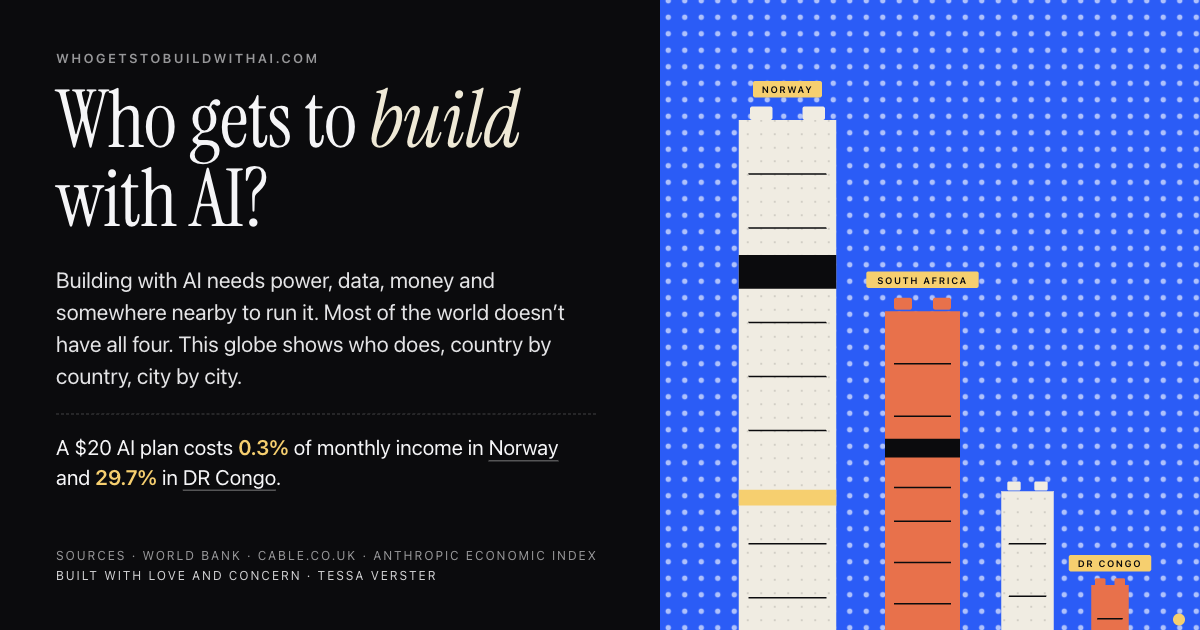
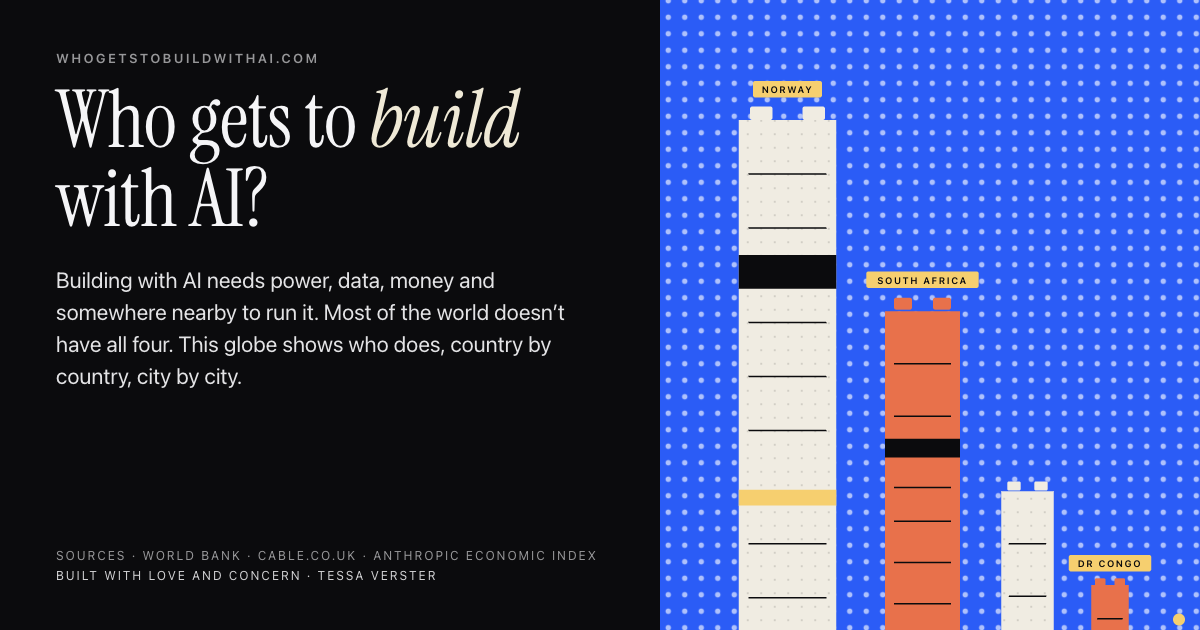
Routes on by default; drop the stat line from the modal; phone modal above the fold; shorter arc labels

Changed region(s): [[0.0308, 0.6937, 0.4625, 0.7841]]

diff --git a/styles.css b/styles.css
@@ -244,13 +244,7 @@
   .ibox h2{font-size:clamp(40px,5.2vw,74px);line-height:.98;opacity:0;animation:rise .6s var(--ease) .4s forwards;position:relative}
   .ibox .lead{font-family:var(--sans);font-size:clamp(16px,1.3vw,19px);color:rgba(245,245,247,.92);line-height:1.5;margin:22px 0 0;max-width:560px;opacity:0;animation:rise .6s var(--ease) .8s forwards}
   .ibox .lead.open{animation-delay:.55s}
-  .ibox .lead.outro{margin-top:14px;animation-delay:1s}
-  .ibox .hero{font-family:var(--sans);font-weight:400;font-size:clamp(17px,1.45vw,21px);line-height:1.45;letter-spacing:0;margin:18px 0 0;padding:18px 0;border-top:var(--rule);border-bottom:var(--rule);color:var(--text);overflow-wrap:anywhere;opacity:0;animation:rise .6s var(--ease) .7s forwards}
-  .ibox .hero b{font-weight:600;font-style:normal;color:#f6cf6f}
-  .ibox .hero a{color:var(--text);text-decoration:underline;text-decoration-color:rgba(255,255,255,.35);text-underline-offset:3px;text-decoration-thickness:1.5px;transition:text-decoration-color .2s}
-  .ibox .hero a:hover{text-decoration-color:var(--text)}
-  .ibox .hero .src{display:inline;font-family:var(--sans);font-weight:400;font-size:.7em;color:var(--muted);text-decoration:underline;text-decoration-color:rgba(255,255,255,.3);text-underline-offset:3px;margin-left:4px;white-space:nowrap;vertical-align:baseline}
-  .ibox .hero .src:hover{color:var(--text);text-decoration-color:var(--text)}
+  .ibox .lead.outro{margin-top:16px;padding-top:16px;border-top:var(--rule);animation-delay:1s}
   .ibox .cta{display:flex;align-items:center;gap:18px;flex-wrap:wrap;margin-top:34px;opacity:0;animation:rise .5s var(--ease) 1.2s forwards}
   #introGo{padding:14px 26px;font-size:15px;letter-spacing:0;text-transform:none;font-weight:600;border-radius:4px;background:#f0ece2;color:#0b0b0d;border-color:#f0ece2}
   #introGo:hover{background:#fff}
@@ -264,11 +258,11 @@
   @keyframes introIn{to{opacity:1}}
   @keyframes shrink{to{transform:scaleX(0)}}
   @keyframes rise{from{opacity:0;transform:translateY(10px)}to{opacity:1;transform:none}}
-  @media (max-width:900px){ .ibox{grid-template-columns:1fr} .ibox .art{order:-1;min-height:0;height:230px} .ibox .copy{padding:26px 28px 26px} .ibox .lead{font-size:16px} .ibox .hero{font-size:17px} }
-  @media (max-width:700px){ .ibox{width:calc(100% - 28px)} .ibox .copy{padding:22px 22px 22px} .ibox .art{height:200px} .ibox .lead{margin-top:14px} .ibox .hero{margin-top:14px;padding:14px 0} .ibox .cta{margin-top:24px} }
-  @media (max-width:380px){ .ibox{width:calc(100% - 20px)} .ibox .copy{padding:18px 16px 18px} .ibox h2{font-size:36px} .ibox .lead{font-size:15px} .ibox .hero{font-size:16px} .ibox .cta{gap:6px} #introGo{padding:11px 18px;font-size:14px} .btn.ghost{font-size:14px} }
-  @media (max-height:520px){ #intro{padding:8px 0} .ibox{width:calc(100% - 24px)} .ibox .copy{padding:14px 22px 12px} .ibox .art{min-height:0} .ibox .kicker{margin-bottom:8px} .ibox h2{font-size:30px} .ibox .hero{font-size:15px;margin-top:8px;padding:8px 0} .ibox .lead{font-size:14px;margin-top:8px} .ibox .cta{margin-top:14px} .ibox .byline{margin-top:10px} }
-  @media (prefers-reduced-motion:reduce){ #intro,.ibox .kicker,.ibox h2,.ibox .hero,.ibox .lead,.ibox .cta,.ibox .byline,.ibox .art{animation:none;opacity:1} .ibar{display:none} }
+  @media (max-width:900px){ .ibox{grid-template-columns:1fr} .ibox .art{order:-1;min-height:0;height:200px} .ibox .copy{padding:24px 28px 22px} .ibox .lead{font-size:16px} .ibox h2{font-size:40px} }
+  @media (max-width:700px){ #intro{align-items:flex-start} .ibox{width:calc(100% - 28px)} .ibox .copy{padding:18px 20px 18px} .ibox .art{height:150px} .ibox .kicker{margin-bottom:8px} .ibox h2{font-size:36px} .ibox .lead{margin-top:12px;font-size:15px;line-height:1.45} .ibox .lead.outro{margin-top:12px;padding-top:12px} .ibox .cta{margin-top:16px;gap:4px 14px} .ibox .byline{margin-top:16px} }
+  @media (max-width:380px){ .ibox{width:calc(100% - 20px)} .ibox .copy{padding:16px 16px 16px} .ibox h2{font-size:32px} .ibox .lead{font-size:14px} .ibox .art{height:120px} #introGo{padding:11px 18px;font-size:14px} .btn.ghost{font-size:14px} }
+  @media (max-height:520px){ #intro{padding:8px 0} .ibox{width:calc(100% - 24px)} .ibox .copy{padding:14px 22px 12px} .ibox .art{min-height:0} .ibox .kicker{margin-bottom:8px} .ibox h2{font-size:30px} .ibox .lead{font-size:14px;margin-top:8px} .ibox .cta{margin-top:14px} .ibox .byline{margin-top:10px} }
+  @media (prefers-reduced-motion:reduce){ #intro,.ibox .kicker,.ibox h2,.ibox .lead,.ibox .cta,.ibox .byline,.ibox .art{animation:none;opacity:1} .ibar{display:none} }
   /* tooltip */
   /* personalised strip at the top of the visitor's own country card; .est is the shared "modelled estimate" styling (methodology panel uses it too) */
   .card .mine{margin:0 0 14px;padding:12px 14px;border-radius:14px;background:var(--fill);border:1px solid var(--line);font-size:14px;line-height:1.45;color:var(--text)}
@@ -283,7 +277,7 @@
   .arclabel i{width:7px;height:7px;border-radius:2px;display:inline-block;box-shadow:inset 0 -1px 0 rgba(0,0,0,.3)}
   .arclabel.dim{opacity:.45!important}
   .arclabel.caption{font-family:var(--serif);font-style:italic;text-transform:none;letter-spacing:0;font-size:13px;color:rgba(245,245,247,.85);background:transparent;border:0;padding:0}
-  @media (max-width:600px){ .arclabel{font-size:9px;padding:3px 6px} .arclabel.caption{font-size:12px} }
+  @media (max-width:600px){ .arclabel{font-size:9px;padding:3px 6px} .arclabel .op{display:none} .arclabel.caption{font-size:12px} }   /* phones: city only; the dot carries the operator */
   /* page share: top right, above the panel; native share sheet where there is one, otherwise copy the link */
   #siteShare{position:fixed;top:18px;right:24px;z-index:9;display:inline-flex;align-items:center;gap:8px;padding:10px 16px;border-radius:999px;background:#efe9d6;color:#0b0b0d;border:0;font-size:12px;letter-spacing:.12em;text-transform:uppercase;font-weight:600;box-shadow:0 10px 30px rgba(0,0,0,.45)}
   #siteShare:hover{background:#fff}

diff --git a/index.html b/index.html
@@ -14,14 +14,14 @@
 <meta property="og:url" content="https://whogetstobuildwithai.com/">
 <meta property="og:type" content="website">
 <meta property="og:site_name" content="Who gets to build with AI?">
-<meta property="og:image" content="https://whogetstobuildwithai.com/og.png?v=3">
+<meta property="og:image" content="https://whogetstobuildwithai.com/og.png?v=4">
 <meta property="og:image:width" content="1200">
 <meta property="og:image:height" content="630">
 <meta property="og:image:alt" content="Who gets to build with AI? Building with AI needs power, data, money and somewhere nearby to run it. Most of the world doesn’t have all four. Towers for Norway, South Africa and DR Congo.">
 <meta name="twitter:card" content="summary_large_image">
 <meta name="twitter:title" content="Who gets to build with AI?">
 <meta name="twitter:description" content="Building with AI needs power, data, money and somewhere nearby to run it. Most of the world doesn’t have all four. A Lego globe shows who does, country by country.">
-<meta name="twitter:image" content="https://whogetstobuildwithai.com/og.png?v=3">
+<meta name="twitter:image" content="https://whogetstobuildwithai.com/og.png?v=4">
 <link rel="icon" type="image/svg+xml" href="favicon.svg">
 <link rel="icon" type="image/png" sizes="32x32" href="favicon-32.png">
 <link rel="apple-touch-icon" sizes="180x180" href="apple-touch-icon.png">
@@ -31,7 +31,7 @@
 <link rel="preconnect" href="https://fonts.gstatic.com" crossorigin>
 <link rel="stylesheet" href="https://fonts.googleapis.com/css2?family=Instrument+Serif:ital@0;1&display=swap">
 <meta name="theme-color" content="#22252d">
-<link rel="stylesheet" href="styles.css?v=20261019b">
+<link rel="stylesheet" href="styles.css?v=20261019c">
 </head>
 <body class="intro noticker">
 <canvas id="scene"></canvas>
@@ -141,7 +141,6 @@
       <div class="kicker">whogetstobuildwithai.com</div>
       <h2>Who gets to <i>build</i> with AI?</h2>
       <p class="lead open">Building with AI needs power, data, money and somewhere nearby to run it. Most of the world doesn’t have all four. This globe shows who does, country by country, city by city.</p>
-      <p class="hero" id="heroStat">A $20 AI plan costs <b>0.3%</b> of monthly income in <a href="?country=NO" data-iso="NO">Norway</a> and <b>29.7%</b> in <a href="?country=CD" data-iso="CD">DR Congo</a>. <a class="src" id="heroSrc" href="?panel=methodology">How this is measured</a></p>
       <p class="lead outro">Explore, be curious, ask questions, and share what you find.</p>
       <div class="cta"><button class="btn primary" id="introGo">See where you stand →</button><button class="btn ghost" id="introExplore">or explore the globe</button></div>
       <div class="byline"><span>Sources · World Bank · Cable.co.uk · Anthropic Economic Index</span><span>Built with love and concern · <a href="https://www.linkedin.com/in/tessa-verster/" target="_blank" rel="noopener">Tessa Verster</a></span></div>

diff --git a/js/intro.js b/js/intro.js
@@ -1,7 +1,7 @@
 /* The intro overlay, wired as early as possible: this module depends only on js/geo.js and data/countryNames.js
    (a few KB), so the overlay is usable long before Three.js, the scene and the full data arrive. Anything that needs
    the scene (opening a country card, focusing search) is queued as `intro.pending` and run by js/main.js once the
-   first frame has rendered. The hero sentence itself is static HTML; main.js re-renders it from the data (HERO_STAT).
+   first frame has rendered.
 
    The overlay does not close by itself. URL switches: ?intro=0 or ?nointro skips the intro, ?intro=1 forces it even if it was seen this session.
    Storage: one sessionStorage flag, "introSeen". No cookies, no network. */
@@ -40,13 +40,6 @@ function labelMiddleTower(iso){
 const seen = (() => { try { return sessionStorage.getItem("introSeen") === "1"; } catch (_) { return false; } })();
 const skip = params.get("intro") === "0" || params.has("nointro") || params.has("country") || (params.get("intro") !== "1" && seen);   // a deep link goes straight to its country
 
-// beat 1: country names in the claim open that country; the source marker opens the methodology panel (?panel=methodology)
-$("#heroStat").addEventListener("click", e => {
-  const a = e.target.closest("a"); if (!a) return;
-  e.preventDefault();
-  if (a.dataset.iso) dismiss({ select: a.dataset.iso });
-  else if (a.id === "heroSrc"){ track("methodology"); history.replaceState(null, "", "?panel=methodology"); window.dispatchEvent(new CustomEvent("open-panel", { detail: "methodology" })); dismiss(); }   // TODO(methodology panel): listen for this event and open it
-});
 // beat 3: the call to action names the visitor's own country when the time zone or browser language gives one away
 const iso = detectCountry(new Set(Object.keys(COUNTRY_NAMES)));
 intro.countryIso = iso;

diff --git a/tools/og-template.html b/tools/og-template.html
@@ -14,9 +14,6 @@
   .title{font-family:"Instrument Serif",Georgia,serif;font-size:80px;font-weight:400;letter-spacing:-.01em;line-height:.98;margin-top:16px}
   .title i{color:#efe9d6}
   .lead{font-size:22px;line-height:1.45;margin-top:26px;max-width:540px;color:rgba(245,245,247,.92)}
-  .stat{font-size:21px;line-height:1.4;margin-top:22px;padding-top:18px;border-top:1px dashed rgba(255,255,255,.22);max-width:540px}
-  .stat b{font-weight:600;color:#f6cf6f}
-  .stat em{font-style:normal;text-decoration:underline;text-decoration-color:rgba(255,255,255,.3);text-underline-offset:5px;text-decoration-thickness:1.5px}
   .foot{position:absolute;left:56px;bottom:44px;font-size:12px;letter-spacing:.16em;text-transform:uppercase;color:rgba(245,245,247,.6);line-height:1.7}
   .foot b{display:block;font-weight:400;color:rgba(245,245,247,.85)}
   .art{position:relative;background:#2b5cf6}
@@ -29,15 +26,11 @@
     <div class="kicker">whogetstobuildwithai.com</div>
     <div class="title">Who gets to <i>build</i> with AI?</div>
     <div class="lead">Building with AI needs power, data, money and somewhere nearby to run it. Most of the world doesn’t have all four. This globe shows who does, country by country, city by city.</div>
-    <div class="stat" id="stat"></div>
     <div class="foot">Sources · World Bank · Cable.co.uk · Anthropic Economic Index<b>Built with love and concern · Tessa Verster</b></div>
   </div>
   <div class="art" id="art"></div>
 </div>
 <script>
-  // From data/countries.js (subscriptionShareOfIncome, derived from World Bank GDP per capita); keep in step with HERO_STAT in js/main.js.
-  const HERO_STAT = "A $20 AI plan costs <b>0.3%</b> of monthly income in <em>Norway</em> and <b>29.7%</b> in <em>DR Congo</em>.";
-  document.getElementById("stat").innerHTML = HERO_STAT;
 </script>
 </body>
 </html>

diff --git a/js/panel.js b/js/panel.js
@@ -249,7 +249,7 @@ function select(ref, keepTab, switching){
   if (!view.autoPan) view.restoreDist = view.tDist;   // remember the zoom we came from, restored when the card closes
   sfx.select();
   if (!ref.isContinent){ showCities(ref); setFocus([t, ...cityTowers, ...state.pinned.map(p => p._tower)]); }
-  if (!ref.isContinent) showArcs(ref.servedBy.map(d => ({from:t.pos, to:d._pos, color:OPERATOR_COLOR[d.operator], dc:d, label:`${OPERATOR_LABEL[d.operator]} · ${d.city}${d.iso === ref.iso ? " · in-country" : d.name === "us-east-1" ? " · frontier models" : " · nearest region"}`})), `Where ${ref.name}'s prompts likely travel`);
+  if (!ref.isContinent) showArcs(ref.servedBy.map(d => ({from:t.pos, to:d._pos, color:OPERATOR_COLOR[d.operator], dc:d, label:`${d.city}<span class="op"> · ${OPERATOR_LABEL[d.operator]}</span>${d.iso === ref.iso ? " · in-country" : d.name === "us-east-1" ? " · frontier" : ""}`})), `Where ${ref.name}'s prompts likely travel`);
   setDCFocus(ref.isContinent ? null : ref.servedBy); retarget(700, false);
   const L = t.n * ref.growthCurve[state.year] * t.dims.h;                                  // this tower's height once settled
   const Lmax = Math.max(L, ...cityTowers.map(ct => ct.n * ct.dims.h * (ct.cityOf === ref ? ref.growthCurve[state.year] : 0)));

diff --git a/js/scene.js b/js/scene.js
@@ -573,11 +573,11 @@ function projectLocal(v){   // world-local point → page pixels, and whether it
 let _panelRect = null;
 const arcsCtl = createArcs({ world, contact, contactBase: towers.length, contactSpare: CONTACT_EXTRA, isPhone: () => isNarrow(), lowTier: () => quality.tier === "low", project: projectLocal });
 function clearArcs(){ lastPairs = null; arcsCtl.clear(); }
-let routesOn = (() => { try { return localStorage.getItem("routes") !== "0"; } catch (_) { return true; } })();
+let routesOn = true;   // on by default on every visit; the toggle (R) is not remembered
 let lastPairs = null, lastCaption = null;
 function showArcs(pairs, caption){ lastPairs = pairs; lastCaption = caption; if (routesOn) arcsCtl.show(pairs, caption); else arcsCtl.clear(); }   // pairs: [{from:Vector3, to:Vector3, color, dc, label}]
 function setRoutes(on){
-  routesOn = !!on; try { localStorage.setItem("routes", routesOn ? "1" : "0"); } catch (_) {}
+  routesOn = !!on;
   const b = $("#routesToggle"); if (b){ b.classList.toggle("on", routesOn); b.setAttribute("aria-pressed", routesOn); }
   if (routesOn && lastPairs && (state.selected || state.selectedDC)) arcsCtl.show(lastPairs, lastCaption); else arcsCtl.clear();
 }

diff --git a/js/main.js b/js/main.js
@@ -24,7 +24,7 @@ const link = c => `<a href="?country=${c.iso}" data-iso="${c.iso}">${c.name}</a>
    ===================================================================================== */
 {
   const A = DATA.countries.find(c => c.iso === HERO_STAT.a), B = DATA.countries.find(c => c.iso === HERO_STAT.b);
-  const hero = $("#heroStat"); if (hero){ const src = $("#heroSrc"); hero.innerHTML = HERO_STAT.text(A, B) + (src ? " " + src.outerHTML : ""); }
+  const hero = $("#heroStat"); if (hero){ const src = $("#heroSrc"); hero.innerHTML = HERO_STAT.text(A, B) + (src ? " " + src.outerHTML : ""); }   // the modal no longer carries the stat (removed 19 Oct 2026); this fills it if it is ever put back
 }
 let app = null;              // { select, showTab, searchEl, syncSheet, isNarrow } once scene.js/panel.js are loaded
 function runPending(){

diff --git a/CLAUDE.md b/CLAUDE.md
@@ -23,7 +23,7 @@ Static, no-build exhibit deployed by GitHub Pages from `main` (custom domain in 
 - `js/colors.js`: `PROVIDER_COLOR`, `OPERATOR_COLOR`, `CONTINENT_COLOR` and `CSS_TOKENS`, a mirror of the `:root` tokens in `styles.css` (styles.css is the source of truth).
 
 ## 4. Intro overlay and side panel
-- Intro: `#intro` markup in `index.html` (styles under `#intro`, `.ibox`, `#placeholder` in `styles.css`). Beats: headline, an opening paragraph (`.lead.open`), `HERO_STAT` (constant in `js/main.js`; the two country names are links that open that country, followed by the inline "How this is measured" link `#heroSrc`), an "Explore, be curious" line (`.lead.outro`), a CTA "See {Country} →" that opens the detected country's card (fallback "See where you stand →" focuses search) and "or explore the globe".
+- Intro: `#intro` markup in `index.html` (styles under `#intro`, `.ibox`, `#placeholder` in `styles.css`). Beats: headline, an opening paragraph (`.lead.open`), an "Explore, be curious" line (`.lead.outro`, dashed rule above). The "$20 AI plan" stat line was removed on 19 Oct 2026 (the user asked); `HERO_STAT` in `js/main.js` still exists and only fills `#heroStat` if that element is ever put back. On phones (≤700px) the art banner is 150px and the type tightens so both CTA buttons sit above the fold on a 375×548 viewport (iPhone SE with Safari's toolbar); `tools/shots.mjs` or a bounding-rect check should confirm this after any intro change, a CTA "See {Country} →" that opens the detected country's card (fallback "See where you stand →" focuses search) and "or explore the globe".
 - `js/intro.js` wires the overlay as an `async` module that depends only on `js/geo.js` (time zone → ISO2 table, then `navigator.language` region; `GEO_OVERRIDE_URL` is the hook for a future `/api/geo`) and `data/countryNames.js`, so it is interactive at ~0.7 s on Slow 4G + 4x CPU; it then starts the Three.js download (`threeReady`) and `js/main.js` awaits it before importing scene.js/panel.js. Actions chosen before the scene exists are queued (`intro.pending`) and run on the first rendered frame, which also adds `body.ready` (fades `#placeholder`, the static dot-grid globe) (there is no auto-dismiss: the overlay waits for a choice or Escape). `sessionStorage.introSeen` skips it on later loads in the session; `?intro=1` forces, `?intro=0` / `?nointro` skip. The source marker sets `?panel=methodology` and dispatches an `open-panel` event (methodology panel still to build). `prefers-reduced-motion` turns off auto-rotate and the intro animations.
 - `tools/intro-perf.mjs` measures intro interactivity on the throttled profile; `tools/shots.mjs` takes desktop + phone screenshots.
 - Controls: `#controls` has Continents, the layer segment, a Routes toggle (arcs on/off, `R`, persisted in localStorage) and sound. `#siteShare` (top right, fixed) shares the page or the selected country's deep link via navigator.share, else copies the link. The prompt counter is hidden by default (`body.noticker`, "Show prompt counter" toggles it). Legend provider entries (`li[data-prov]`) filter: the top 10 countries by that provider's share stay up, the rest drop to one brick, and the Usage list re-sorts (`setProviderFilter`). While a country or data centre is selected, unrelated towers drop to one brick (`keepUp`/`LOWERED_BRICKS` in scene.js) and unrelated data-centre bricks dim (`setDCFocus`).
@@ -31,8 +31,9 @@ Static, no-build exhibit deployed by GitHub Pages from `main` (custom domain in 
 
 ## 5. Head metadata
 - `index.html` head: charset, viewport (no user zoom), mobile-web-app metas, `<title>` "Who gets to build with AI?", description (<155 chars), canonical, `og:*` and `twitter:*` tags pointing at `https://whogetstobuildwithai.com/og.png` (1200×630), favicons, `site.webmanifest`, `theme-color`.
-- Analytics: GoatCounter (site code `whogetstobuildwithai`, dashboard at whogetstobuildwithai.goatcounter.com). The counter script tag in index.html counts page views; `js/analytics.js` (`track(name)`, `trackCountry(iso, name)`) sends events: `intro-see-country`, `intro-explore`, `methodology`, `tab-*`, `layer-*`, `share-site`, `share-country`, and country opens as views of `/c/{iso}/`. Silent with `?debug`, never throws, and GoatCounter ignores localhost. Cookieless, so no consent banner.
-- The stylesheet link in index.html carries a cache-busting `?v=` (bump it whenever styles.css changes: GitHub Pages serves with max-age=600, so visitors otherwise keep the old CSS under a fresh page). The share image URL carries one too (bump it whenever og.png changes so platforms refetch it). `og.png` is rendered from `tools/og-template.html` by `tools/render-og.mjs` (plain HTML, no WebGL): the same design as the intro modal, and the renderer lifts the `#introArt` SVG out of index.html so the two never drift. The hero stat is the `HERO_STAT` constant in the template; keep it in step with js/main.js. Re-run after any change to the modal copy or illustration.
+- Routes (arcs from a selected country to the data centres serving it) are on by default on every visit; the toggle (R) is per visit, not remembered. Arc labels are `City<span class="op"> · Operator</span>` plus "· in-country" or "· frontier"; the `.op` span is hidden under 600px so phones show the city only (the dot colour carries the operator).
+- Analytics: GoatCounter (site code `whogetstobuildwithai`, dashboard at whogetstobuildwithai.goatcounter.com). The counter script tag in index.html counts page views; `js/analytics.js` (`track(name)`, `trackCountry(iso, name)`) sends events: `intro-see-country`, `intro-explore`, `tab-*`, `layer-*`, `share-site`, `share-country`, and country opens as views of `/c/{iso}/`. Silent with `?debug`, never throws, and GoatCounter ignores localhost. Cookieless, so no consent banner.
+- The stylesheet link in index.html carries a cache-busting `?v=` (bump it whenever styles.css changes: GitHub Pages serves with max-age=600, so visitors otherwise keep the old CSS under a fresh page). The share image URL carries one too (bump it whenever og.png changes so platforms refetch it). `og.png` is rendered from `tools/og-template.html` by `tools/render-og.mjs` (plain HTML, no WebGL): the same design as the intro modal, and the renderer lifts the `#introArt` SVG out of index.html so the two never drift. Re-run after any change to the modal copy or illustration.
 
 ## 6. Routing and URL state
 - `js/urlState.js`: `?country={iso}`, `?tab=`, `?layer=` are read on load (`applyUrlState()` in `js/main.js`, after the first frame) and written with `history.replaceState` from `select()`, `showTab()` and `setLayer()`; defaults are removed. `?country` also skips the intro. Other inputs: `?intro=0|1`, `?nointro` (js/intro.js), `?panel=methodology` (source marker; panel not built yet). `keyCollapsed` (localStorage) and `introSeen` (sessionStorage) are the only persisted bits.
